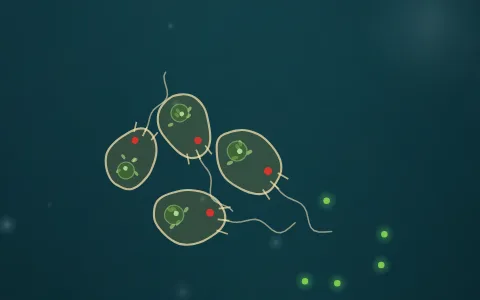
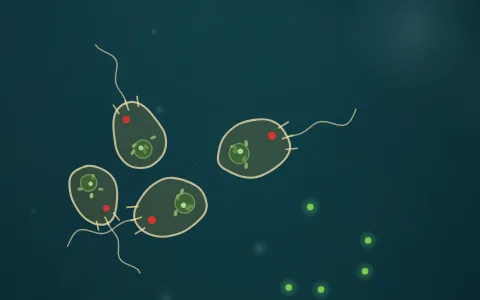
PETRI_ sizes: bacteria bigger (bacillus 1.1, coccus 0.9, spirillum 1.0 of the size gene), so they are easy to make out in the dish; a specimen put down in the lab starts at its full size instead of swelling in; sheet pictures re-rendered

diff --git a/src/modes/petri/sim.ts b/src/modes/petri/sim.ts
@@ -182,6 +182,8 @@ export interface WorldSave {
 
 const TAU = Math.PI * 2;
 const wrapAngle = (a: number) => Math.atan2(Math.sin(a), Math.cos(a));
+/** the radius a cell grows to: its size, a little less when hungry, a little more when well fed */
+const grownR = (size: number, energy: number, sp: Species) => size * (0.8 + 0.35 * Math.min(1.1, energy / sp.divideAt));
 
 export class World {
   cells: Cell[] = [];
@@ -284,15 +286,17 @@ export class World {
     this.contacts = now;
   }
 
+  /** `grown`: at its full size at once (the lab puts a whole specimen down); otherwise it swells in from small */
   spawnCell(
     sp: Species,
     x: number,
     y: number,
-    o: { energy?: number; gen?: number; hue?: number; size?: number; speed?: number } = {},
+    o: { energy?: number; gen?: number; hue?: number; size?: number; speed?: number; grown?: boolean } = {},
   ): Cell | null {
     if (this.cells.length >= MAX_CELLS || (this.counts.get(kindOf(sp)) ?? 0) >= MAX_PER_SPECIES) return null;
     [x, y] = this.inside(x, y, sp.size + 8);
     const size = o.size ?? sp.size * (0.9 + this.r() * 0.2);
+    const energy = o.energy ?? sp.divideAt * (0.45 + this.r() * 0.15);
     const c: Cell = {
       id: this.nextId++,
       sp,
@@ -302,8 +306,8 @@ export class World {
       vy: 0,
       heading: this.r() * TAU,
       size,
-      r: size * 0.4,
-      energy: o.energy ?? sp.divideAt * (0.45 + this.r() * 0.15),
+      r: o.grown ? grownR(size, energy, sp) : size * 0.4,
+      energy,
       age: 0,
       life: sp.life * (0.8 + this.r() * 0.4),
       gen: o.gen ?? 1,
@@ -777,7 +781,7 @@ export class World {
     const stress = this.stress();
     c.energy -=
       dt * (0.5 + moving * moving * 1.1) * (c.size / 14) * T * (c.sick ? 1.6 : 1) * (1 + stress * 1.8 + Math.min(4, c.touching) * 0.12);
-    const target = c.size * (0.8 + 0.35 * Math.min(1.1, c.energy / sp.divideAt));
+    const target = grownR(c.size, c.energy, sp);
     c.r += (target - c.r) * Math.min(1, dt * 1.5);
 
     // a sick cell does not divide: the meal that poisoned it does not become offspring right away

diff --git a/src/modes/petri/genome.ts b/src/modes/petri/genome.ts
@@ -329,11 +329,12 @@ function analyse(toks: Token[]): Stats {
   return st;
 }
 
+/** a body's size against the size gene; bacteria are the small ones, but still big enough to make out in the dish */
 const SIZE: Record<Body, number> = {
   amoeba: 1.55,
-  bacillus: 0.75,
-  coccus: 0.6,
-  spirillum: 0.75,
+  bacillus: 1.1,
+  coccus: 0.9,
+  spirillum: 1.0,
   diatom: 1.1,
   ciliate: 1.3,
   flagellate: 0.9,

diff --git a/src/modes/petri/lab/lab.ts b/src/modes/petri/lab/lab.ts
@@ -505,7 +505,7 @@ export class Lab {
     const b = this.canvas.getBoundingClientRect();
     const [x, y] = this.r.toWorld(cx - b.left, cy - b.top);
     if (Math.hypot(x, y) > DISH_R) return;
-    const c = W.spawnCell(sp, x, y);
+    const c = W.spawnCell(sp, x, y, { grown: true });
     if (!c) this.toast(t('labFull'));
     else this.route({ type: 'spawn', x: c.x, y: c.y, sp });
     this.flush();
